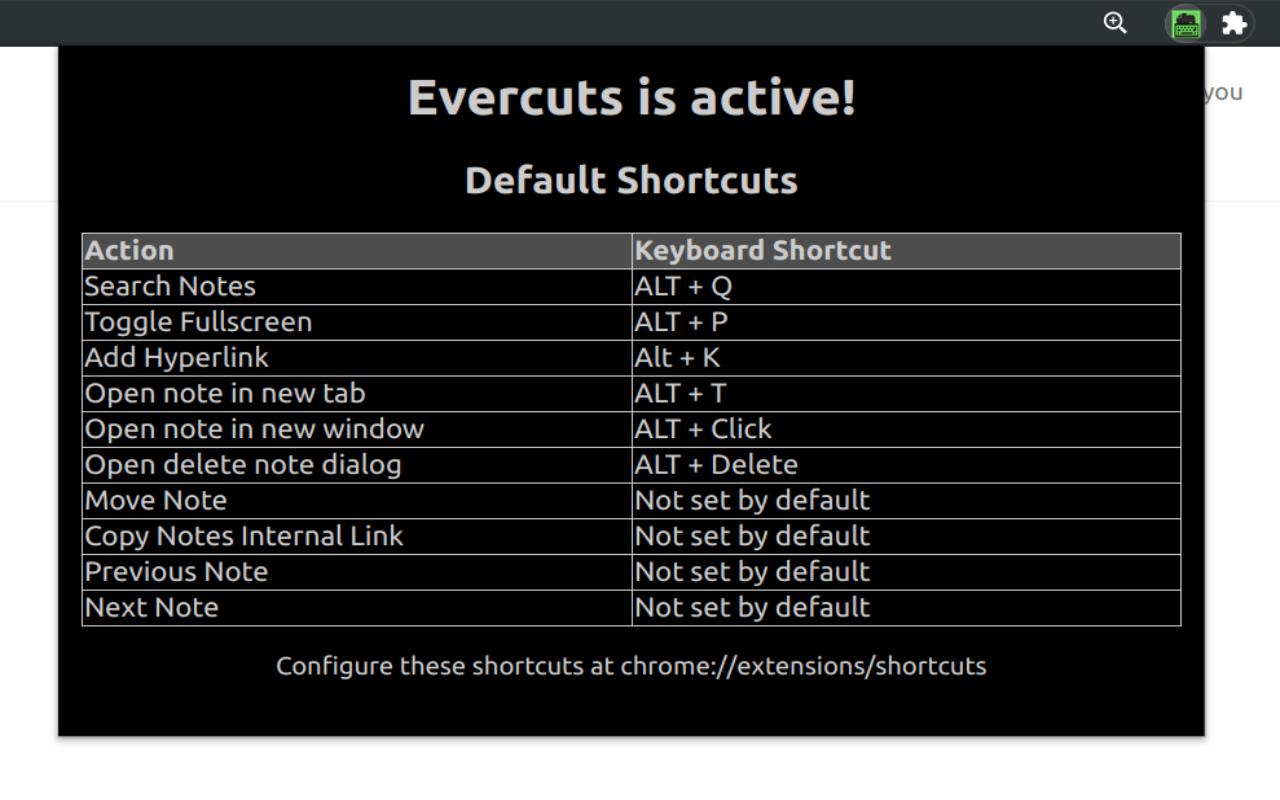
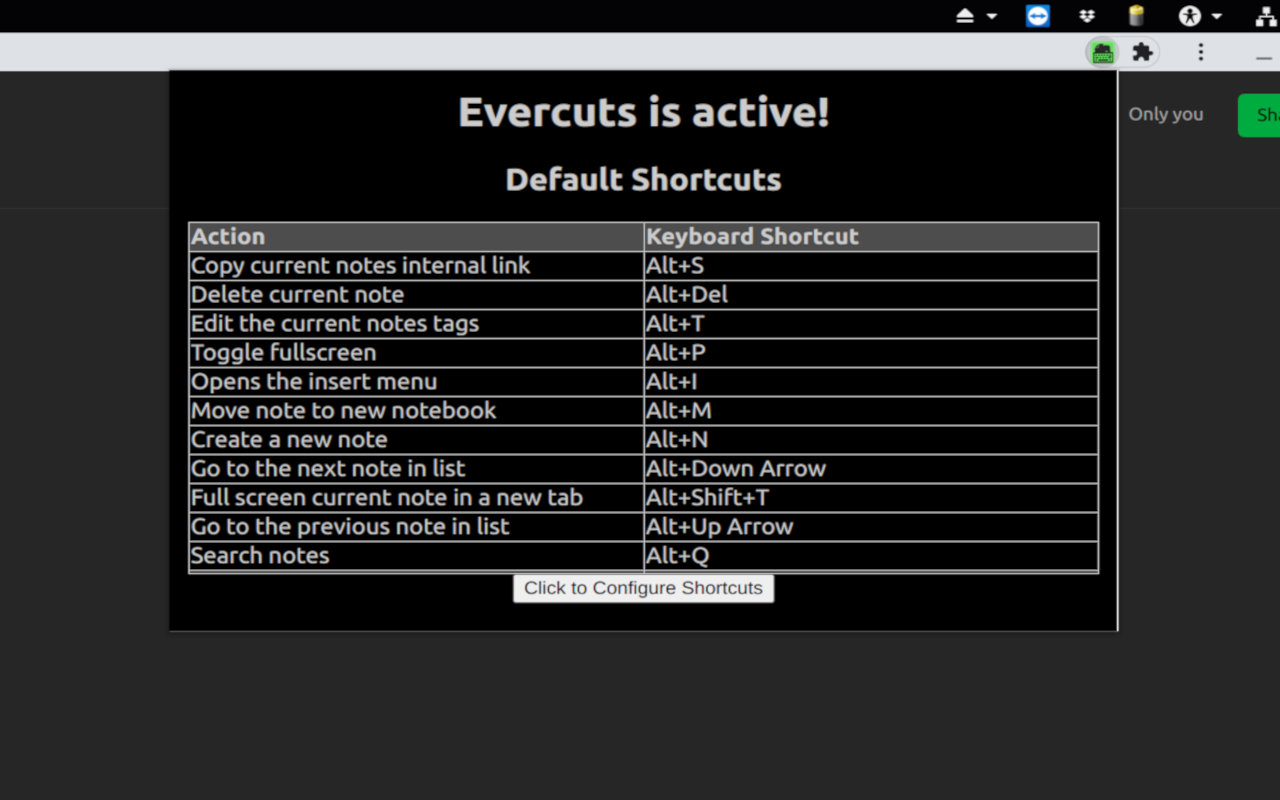
New features (#20)
* New features:
* Insert Menu via shortcut
* Edit note tags via shortcut
* Extension popup display correct info with button to configure

diff --git a/popup/index.html b/popup/index.html
@@ -9,57 +9,18 @@
 <body>
     <h1>Evercuts is active!</h1>
     <h2>Default Shortcuts</h2>
-    <table class="shortcutTable">
+    <table id="shortcutTable" class="shortcutTable">
         <tbody>
             <tr class="headerRow">
                 <td><b>Action</b></td>
                 <td><b>Keyboard Shortcut</b></td>
             </tr>
-            <tr>
-                <td>Search Notes</td>
-                <td>ALT + Q</td>
-            </tr>
-            <tr>
-                <td>Toggle Fullscreen</td>
-                <td>ALT + P</td>
-            </tr>
-            <tr>
-                <td>Move Note</td>
-                <td>Alt + M</td>
-            </tr>
-            <tr>
-                <td>Open note in new window</td>
-                <td>ALT + Click</td>
-            </tr>
-            <tr>
-                <td>Delete note</td>
-                <td>ALT + Delete</td>
-            </tr>
-            <tr>
-                <td>Open note in new tab</td>
-                <td>Not set by default</td>
-            </tr>
-            <tr>
-                <td>Copy Notes Internal Link</td>
-                <td>Not set by default</td>
-            </tr>
-            <tr>
-                <td>Previous Note</td>
-                <td>Not set by default</td>
-            </tr>
-            <tr>
-                <td>Next Note</td>
-                <td>Not set by default</td>
-            </tr>
-            <tr>
-                <td>New Note</td>
-                <td>Not set by default</td>
-            </tr>
         </tbody>
     </table>
     <div class="footer">
-        <p>Configure these shortcuts at chrome://extensions/shortcuts</p>
+        <button id="hotkey">Click to Configure Shortcuts</button>
+        <script src="popup.js"></script>
     </div>
 </body>
-
+<script src="index.js"></script>
 </html>

diff --git a/content_scripts/background.js b/content_scripts/background.js
@@ -65,5 +65,17 @@ chrome.commands.onCommand.addListener(function (command) {
             tabs[0].id,
             {file: "injectable_actions/newNote.js"});
       });
+    } else if (command === "insertMenu") {
+      chrome.tabs.query({active: true, currentWindow: true}, function(tabs) {
+        chrome.tabs.executeScript(
+            tabs[0].id,
+            {file: "injectable_actions/insertMenu.js"});
+      });
+    } else if (command === "editTags") {
+      chrome.tabs.query({active: true, currentWindow: true}, function(tabs) {
+        chrome.tabs.executeScript(
+            tabs[0].id,
+            {file: "injectable_actions/editTags.js"});
+      });
     }
 });

diff --git a/popup/index.js b/popup/index.js
@@ -1,0 +1,16 @@
+window.onload = (event) => {
+    var table = document.getElementById("shortcutTable");
+    chrome.commands.getAll(function(commands){
+      for (var i = 0; i <= commands.length; i++) {
+        var row = table.insertRow(i+1);
+        var cell1 = row.insertCell(0);
+        var cell2 = row.insertCell(1);
+        cell1.innerHTML = commands[i]["description"];
+        if (commands[i]["shortcut"]) {
+            cell2.innerHTML = commands[i]["shortcut"];
+        } else {
+            cell2.innerHTML = "Click button below to configure";
+        }
+      }
+    });
+};

diff --git a/injectable_actions/editTags.js b/injectable_actions/editTags.js
@@ -1,0 +1,14 @@
+function clickEditTags () {
+    const el = document.getElementById('qa-ACTION_EDIT_TAGS');
+    el.click();
+}
+
+function openMoreActionsMenu() {
+    var evt = document.createEvent("MouseEvents");
+    evt.initEvent("mouseup", true, true);
+    const button = document.getElementById("qa-NOTE_ACTIONS").parentElement;
+    button.dispatchEvent(evt);
+}
+
+openMoreActionsMenu();
+setTimeout(function() { clickEditTags();}, 100); // Wait .1 sec and click delete

diff --git a/injectable_actions/insertMenu.js b/injectable_actions/insertMenu.js
@@ -1,0 +1,8 @@
+function openInsertMenu() {
+    var evt = document.createEvent("MouseEvents");
+    evt.initEvent("mouseup", true, true);
+    const button = document.getElementById("qa-INSERT_DROPDOWN");
+    button.dispatchEvent(evt);
+}
+
+openInsertMenu();

diff --git a/popup/popup.js b/popup/popup.js
@@ -1,0 +1,3 @@
+document.getElementById('hotkey').onclick = () => chrome.tabs.create({
+  url: 'chrome://extensions/configureCommands'
+});

diff --git a/README.md b/README.md
@@ -13,6 +13,8 @@ Chrome Extension adding keyboard shortcuts to the new Evernote Web GUI.
 | Previous Note* | Not set |
 | Next Note* | Not set |
 | New Note* | Not set |
+| Open Insert Menu* | Not set |
+| Edit current note tags* | Not set |
 
 _We are only allowed to set 4 default shortcuts. So in order to use shorcuts that are not set by default you must visit chrome://extension/shortcuts_
 
